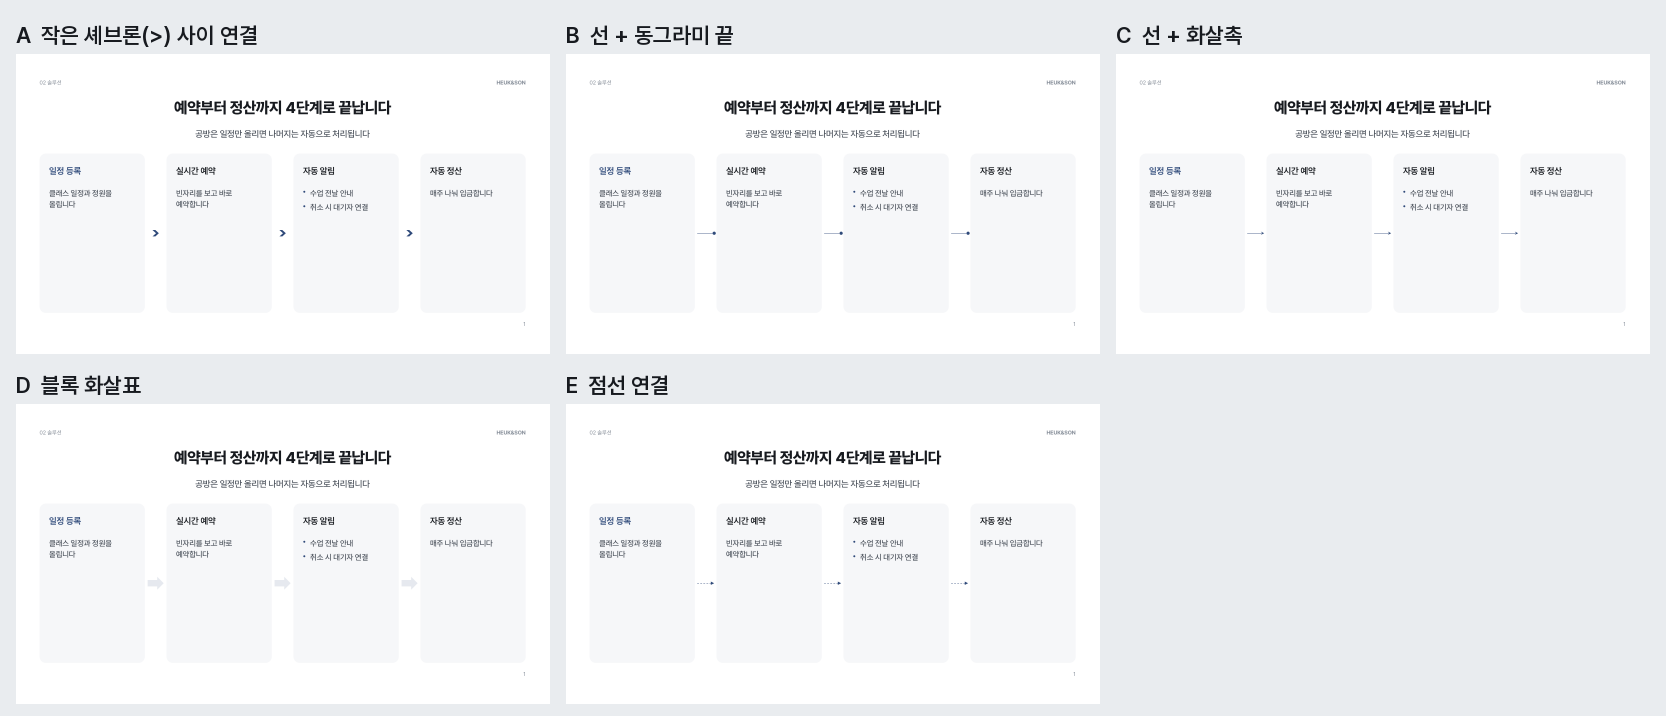
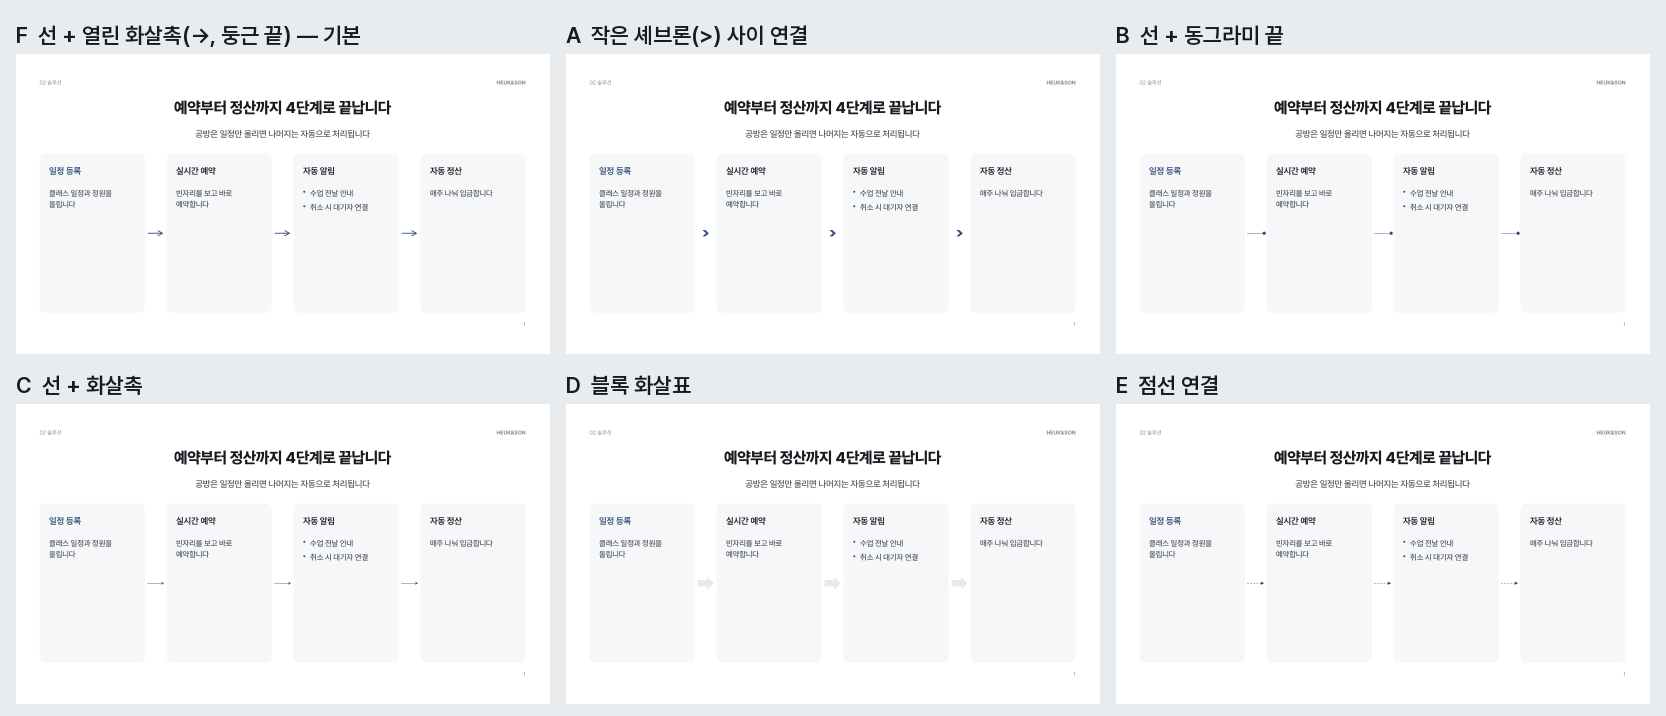
기본 화살표를 열린 화살촉(→, 둥근 끝)으로 지정
- 연결 스타일 F 추가 후 기본값으로, 화살촉 크게

diff --git a/ir/scripts/build_deck.py b/ir/scripts/build_deck.py
@@ -11,7 +11,7 @@ deck.json 최상위:
 숫자는 data 파일만 가리킨다: value_ref "data/kpi.csv#mau", chart.data, table.data
 
 스타일(design-kit/ir-styles/styles.json):
-  typography(compact|standard|airy), cover(A–E), header(A–G), connector(A–E), card(A–E),
+  typography(compact|standard|airy), cover(A–E), header(A–G), connector(F 기본·A–E), card(A–E),
   image(A–C), bullet(dot|dash|check|number), divider(solid|dot|dash|none), summary_bar(pill|band|none)
 여백은 tokens.json slide.margin_cm(상하좌우 1.5cm) 안전 영역을 벗어나지 않는다. 꽉 찬 배경은 이름 "bleed:".
 """
@@ -418,6 +418,14 @@ def connector(slide, x_from, x_to, y):
     elif kind == "D":     # 블록 화살표
         s = min(gap - Inches(0.08), Inches(0.4))
         shape(slide, MSO_SHAPE.RIGHT_ARROW, x_from + (gap - s) / 2, y - Inches(0.16), s, Inches(0.32), fill=ACCENT_SOFT)
+    elif kind == "F":     # 기본: 선 + 열린 화살촉(→), 둥근 선 끝 (사용자 지정)
+        m = Inches(0.08)
+        c = seg(slide, x_from + m, y, x_to - m, y, ACCENT, "bold", None, "arrow")
+        ln = c.line._get_or_add_ln()
+        ln.set("cap", "rnd")
+        te = ln.find(qn("a:tailEnd"))
+        te.set("w", "lg")      # 참고 이미지처럼 큰 열린 화살촉
+        te.set("len", "lg")
     else:
         m = Inches(0.06)
         end = {"B": "oval", "C": "stealth", "E": "triangle"}[kind]
